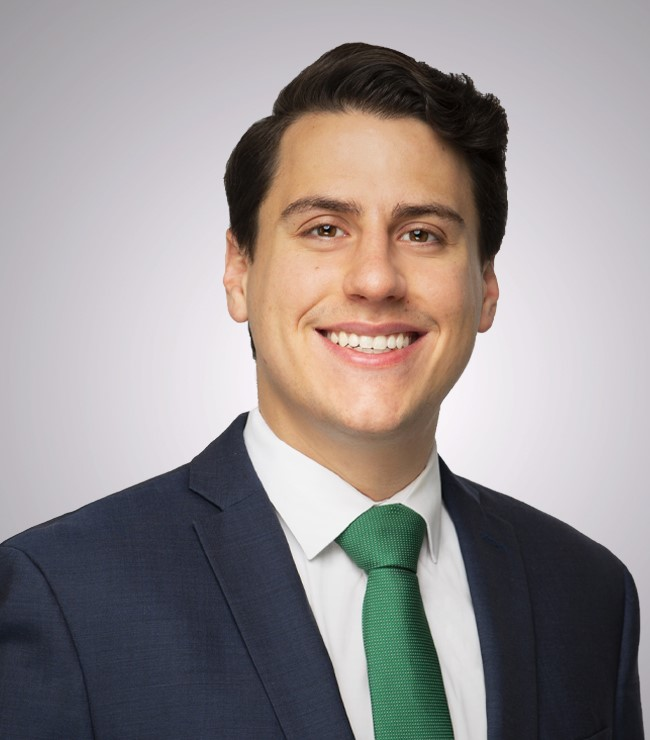
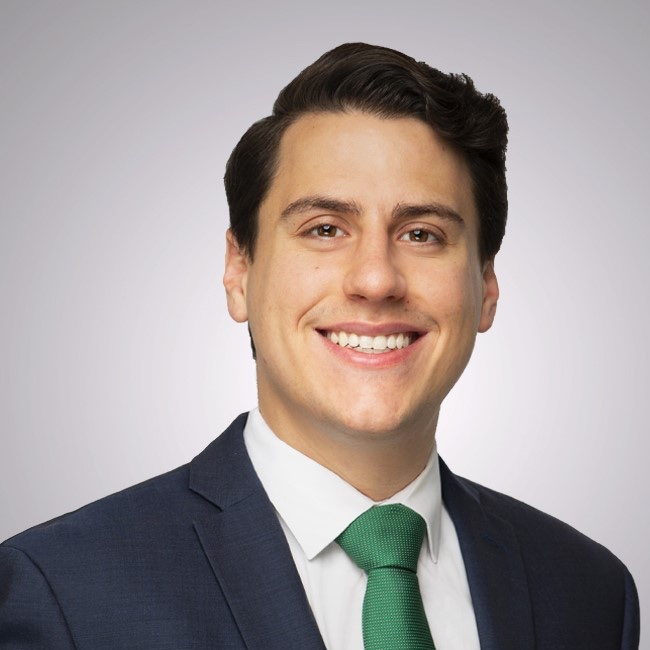
Update DMA headshots, About DMA copy
- Headshots were cropped to square to ensure that they stayed round
- Copy was updated/slightly reorganized

Changed region(s): [[0.0, 0.0308, 1.0, 1.0], [0.1231, 0.9231, 0.1538, 1.0], [0.0923, 0.8615, 0.1231, 0.8923]]

diff --git a/alumni.php b/alumni.php
@@ -9,8 +9,8 @@
 			'name'                  =>  'Alexandra "Zandy" Hernandez',
 			'email'                 =>  '',
             'current_city'          =>  'Atlanta, GA',
-			'previous_involvement'  =>  '"2015 Recruitment Captain, 2016 Recruitment Assistant Director, 2017 Outreach Overall Director, 2021 DMA Board Member, 2022 DMA President"',
-			'fun_fact'				=>  'I ate pizza for dinner for a week straight because I was dedicated to going to the various hospitality nights that week.',
+			'previous_involvement'  =>  '2015 Recruitment Captain, 2016 Recruitment Assistant Director, 2017 Outreach Overall Director, 2021 DMA Board Member, 2022 DMA President',
+              'fun_fact'                =>  'I ate pizza for dinner for a week straight because I was dedicated to going to the various hospitality nights that week.',
 			'favorite_memory'       =>  'I will never forget standing with my fellow Recruitment Captains during closing ceremonies of Dance Marathon at UF 2015.  When we realized we had raised over $2 million for the first time, we burst into tears and a huge group hug. I would not have wanted to share that moment with anyone else.',
 			'continued'             =>  'My involvement in Dance Marathon shaped me both professionally and personally.  It left such a profound impact on my life that I love sharing with others whenever given the chance.  My time on the DMA Board has provided me with a more hands on opportunity to continue my involvement with DM and raise awareness for the cause.',
 			'image'                 =>  'AHernandez'
@@ -19,8 +19,8 @@
 			'name'                  =>  'Arie Hariton',
             'email'                 =>  '',
 			'current_city'          =>  'San Francisco, CA',
-			'previous_involvement'  =>  'Fundraising Overall 2018, Fundraising Captain 2017',
-			'fun_fact'              =>  'I have been to all 7 continents',
+			'previous_involvement'  =>  '2017 Fundraising Captain, 2018 Fundraising Overall',
+			'fun_fact'              =>  'I have been to all 7 continents.',
 			'favorite_memory'       =>  'Raising the numbers for the first year DM raised over $3 million and seeing the joy and reactions from everyone.',
 			'continued'             =>  'Participated in DMA events, kept up with Miracle Families through social media, and continued to donate to members of the Fundraising team!',
 			'image'                 =>  'AriH'
@@ -29,20 +29,20 @@
               'name'                  =>  'Kelsey Johnson',
               'email'                 =>  '',
               'current_city'          =>  'Saint Augustine, FL',
-              'previous_involvement'  =>  '"Dancer - 2014, Captain, Marketing - 2015, Captain, Merchandise - 2016, Assistant Director, Merchandise - 2017"',
+              'previous_involvement'  =>  '2014 Dancer, 2015 Marketing Captain, 2016 Merchandise Captain, 2017 Merchandise Assistant Director',
               'fun_fact'              =>  'I have a habit of doing embarrassing things for donations. I once turned myself into a peanut butter & jelly sandwich, and have run the 5K dressed as an alien and in a banana costume!',
               'favorite_memory'       =>  'Performing in the DM Talent Show as Nick Mullen backup dancers as he sang Man in the Mirror by Michael Jackson, or embarrassing Mr. Scott Mullen year after year by winning fundraising challenges!',
-              'continued'             =>  'I have continued to both fundraise and donate to Dance Marathon since I graduated from UF in 2017 and have had the opportunity to attend the event as an alumna. This past year I was also able to stay involved with the DMA miracle family, the Mullens, and consider their family as my extended famil.',
+              'continued'             =>  'I have continued to both fundraise and donate to Dance Marathon since I graduated from UF in 2017 and have had the opportunity to attend the event as an alumna. This past year I was also able to stay involved with the DMA miracle family, the Mullens, and consider their family as my extended family.',
 			'image'                 =>  'KJohnson'
 		),
 		array(
               'name'                  =>  'Jonathan Pereyra',
               'email'                 =>  '',
               'current_city'          =>  'Fort Lauderdale, FL',
-              'previous_involvement'  =>  'Creative Development Overall 2018',
-              'fun_fact'              =>  'I bleached my hair for DM and my team called me Blondathon',
-              'favorite_memory'       =>  'Driving around Gainesville with my team delivering Mac and Cheese for our Spring fundraiser.',
-              'continued'             =>  'A little bit of Dance Marathon has been with me since graduation, whether it be continuing app development in my career, attending the event as an alumni, or reaching out to the current members of Creative Development/Design & Technology and supporting them in whatever way I can.',
+              'previous_involvement'  =>  '2017 Creative Development Captain, 2018 Creative Development Overall',
+              'fun_fact'              =>  'I bleached my hair for DM and my team called me Blondathon.',
+              'favorite_memory'       =>  'Standing behind the Tech booth and being able to watch the event unfold from the best seat in the house.',
+              'continued'             =>  'A little bit of Dance Marathon has been with me since graduation, whether it be continuing app development in my career, attending the event as an alumnus, or reaching out to the current members of Creative Development/Design & Technology and supporting them in whatever way I can.',
 			'image'                 =>  'Jpereyra'
 		),
 		array(
@@ -50,9 +50,9 @@
               'email'                 =>  '',
               'current_city'          =>  'Atlanta, GA',
               'previous_involvement'  =>  '2017 Finance Manager',
-              'fun_fact'              =>  'I spent ages 6-12 living in the Netherlands',
+              'fun_fact'              =>  'I spent ages 6-12 living in the Netherlands.',
               'favorite_memory'       =>  'I had the opportunity to spend an hour at the top of the ODome during the event as an OT member.  Seeing the joy of the miracle families and the dancers really made me appreciate the opportunity to be there and all of the hard work of the folks involved to get us to that day.',
-              'continued'             =>  'I have continued to stay involved through the DMAlumni organization and still keep in touch with some of the miracle families I met at UF',
+              'continued'             =>  'I have continued to stay involved through the DMA and still keep in touch with some of the miracle families I met at UF',
 			'image'                 =>  'JesseS'
 		)
 	);
@@ -326,7 +326,6 @@ background-image: url("/assets/images/BannerPhotos21/Ben_G-5.jpg");
           <ul class="nav nav-tabs" role="tablist">
             <li role="presentation" class="active"><a href="#mini-marathon" aria-controls="mini-marathon" role="tab" data-toggle="tab">About DM Alumni</a></li>
             <li role="presentation"><a href="#schools" aria-controls="schools" role="tab" data-toggle="tab">Meet The DMA Board</a></li>
-            <li role="presentation"><a href="#whatsmyzone" aria-controls="whatsmyzone" role="tab" data-toggle="tab">DM Alumni Members</a></li>
           </ul>
 
           <!-- Tab panes -->
@@ -334,15 +333,18 @@ background-image: url("/assets/images/BannerPhotos21/Ben_G-5.jpg");
           <div class="tab-content">
 
             <div role="tabpanel" class="tab-pane fade in active" id="mini-marathon">
-						<h3>Get Involved</h3>
+
+			
+			<h3>About</h3>
+
+<p>Since 1995, Dance Marathon at UF has raised over $26 million for UF Health Shands Children's Hospital, our local Children’s Miracle Network Hospital. Thanks to your dedication and support throughout your college years, we have become the most successful student-run philanthropy in the southeastern United States.</p>
+<p>Dance Marathon at UF knows that the Gator Nation is everywhere. Formed in 2013, Dance Marathon at UF Alumni gives alumni across the country the opportunity to continue to give back and stay involved with their alma mater. Membership is only $40 per year and offers a variety of benefits.</p>
+
+						<h3>Get Involved!</h3>
 						<!-- This should work -->
-						<p>Our Dance Marathon at UF Alumni continue to support our cause and spread our movement, even after they graduate.  Join the DMA and stay a member of DM at UF for years to come with exclusive alumni access at the event and the opportunity to continue your involvement beyond your years at UF. <a href=https://docs.google.com/forms/d/e/1FAIpQLScCkmkxiWUOKqgCh-ERRSKYWLf6qxTBb4anrEDXhquefkOhcQ/viewform?gxids=7628>Become a member or renew your membership today.</a></p>
-						<p>Be sure to like the official page for <a href=https://www.facebook.com/FloridaDMAlumni?fref=ts>Dance Marathon at UF Alumni on Facebook</a> to stay connected with the rest of your Dance Marathon Alumni family.</p>
+						<p>Our Dance Marathon at UF Alumni continue to support our cause and spread our movement, even after they graduate.  Join the DMA and stay a member of DM at UF for years to come with exclusive alumni access at the event and the opportunity to continue your involvement beyond your years at UF. <br><a href=https://dmatuf.page.link/lifetime>Become a member today!</a></p>
+						<p>Follow us on <a href=https://www.instagram.com/dmatufalumni>Instagram</a>, and be sure to like the official page for <a href=https://www.facebook.com/dmatufalumni>Dance Marathon at UF Alumni on Facebook</a> to stay connected with the rest of your DM at UF Alumni family.</p>
 
-						<h3>About</h3>
-
-<p>Since 1995, Dance Marathon at UF has raised over $18.2 million for UF Health Shands Children's Hospital, our local Children’s Miracle Network Hospital. Thanks to your dedication and support throughout your college years, we have become the most successful student-run philanthropy in the southeastern United States. This past year, the DMA contributed $66,528 to our final total, exhibiting their continued passion helping to end childhood illness.</p>
-<p>Dance Marathon at UF knows that the Gator Nation is everywhere. Formed in 2013, the Dance Marathon Alumni group gives alumni across the country the opportunity to continue to give back and stay involved with their alma mater. Membership is only $35 per year and offers a variety of benefits.</p>
 
 				      <h3>Lifetime DMA Membership</h3>
 						<p>This year, we would like to introduce the <b>Lifetime DMA Membership!</b> This membership gives you the ability to register to the DMA with a one-time fee that will grant you a lifetime of engagement with Dance Marathon Alumni. This fee is tax-deductible and unlocks incredible benefits as a DM at UF alumni. Our goal as an organization is to continue to engage, involve, and update our alumni year over year on the impacts they have made, and continue to make, by supporting Dance Marathon at UF. </p>
@@ -350,7 +352,7 @@ background-image: url("/assets/images/BannerPhotos21/Ben_G-5.jpg");
 						<p>Within the Lifetime DMA Membership, there are <b><u>two</u></b> membership options:</p>
 						<div></div>
 					  <h4><i style="color:#f79b63;"><b>(1) Miracle Membership</b></i></h4>
-						<p>This <b>general membership</b> provides new DMA members with benefits outlined below, through a one-time fee of </b>$40</b>. The Miracle Membership, as it stands today, includes those registered members from the inception of the DMA (2015) to all current members (2020). This membership will automatically grandfather returning members, and new members to the DMA, into the Miracle Membership. </p>
+						<p>This <b>general membership</b> provides new DMA members with benefits outlined below, through a one-time fee of </b>$40</b>. The Miracle Membership, as it stands today, includes those registered members from the inception of the DMA (2015) to all current members (2021). This membership will automatically grandfather returning members, and new members to the DMA, into the Miracle Membership. </p>
 						<p><b><i>Membership Benefits Include:</i></b></p>
 							<ul>
 								<li>Monthly E-Newsletter updates</li>
@@ -389,7 +391,7 @@ background-image: url("/assets/images/BannerPhotos21/Ben_G-5.jpg");
 					  <h4><b><u>FAQs</u></b></h4>
 				      <p><b>Q: I have never been a part of the DMA before and just registered for the first time. What membership do I have? </b><br>
 					  <b>A:</b> As a first-time DMA member, your <b>$40</b> fee unlocks the <b style="color:#617ba6;">Legacy Membership</b> for your first year. After your first year, you will have the option to pay the annual fee of <b>$40</b> to continue your <b style="color:#617ba6;">Legacy Membership</b>, or you will be automatically shifted into the <b style="color:#f79b63;">Miracle Membership</b> at no cost.</p>
-					  <p><b>Q: What if I registered for the DMA in a previous year (2015-2020) and never renewed?</b><br>
+					  <p><b>Q: What if I registered for the DMA in a previous year (2015-2021) and never renewed?</b><br>
 					  <b>A:</b> You will be grandfathered into the <b style="color:#f79b63;">Miracle Membership</b>!</p>
 					  <p><b>Q: Can I upgrade my <b style="color:#f79b63;">Miracle Membership</b> throughout the year?</b><br>
 					  <b>A:</b> Yes! However, you can only upgrade up until one month before the event so we are able to accommodate for all of the additional benefits (i.e. t-shirt, brunch, etc.).<br>
